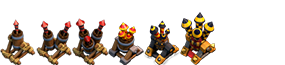
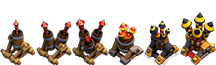
ImageLibrary configured and ImageView added to Entity

diff --git a/src/viewers/VillageScene.java b/src/viewers/VillageScene.java
@@ -1,18 +1,15 @@
 package viewers;
 
-import javafx.geometry.Rectangle2D;
 import javafx.scene.Group;
 import javafx.scene.Scene;
-import javafx.scene.image.Image;
 import javafx.scene.image.ImageView;
 import javafx.scene.layout.GridPane;
+import javafx.scene.layout.Pane;
+import models.GameLogic.Entities.Buildings.Building;
 import viewers.utils.DraggablePane;
+import viewers.utils.ImageLibrary;
 import viewers.utils.IsometricPane;
 import viewers.utils.MapTile;
-
-import java.io.File;
-import java.io.FileInputStream;
-import java.io.IOException;
 
 import static viewers.utils.Const.*;
 
@@ -23,6 +20,7 @@ public class VillageScene extends Scene{
     private DraggablePane draggableView;
     private GridPane tiles;
     private IsometricPane isometricPane;
+    private Pane buildinsPane;
     private ImageView villageBackground = new ImageView();
 
     private VillageScene() {
@@ -37,7 +35,7 @@ public class VillageScene extends Scene{
     }
 
     public Scene build() {
-        loadImageView(villageBackground, VIllAGE_BACKGROUND_PATH);
+        villageBackground.setImage(ImageLibrary.VillageBackground.getImage());
 
         tiles = new GridPane();
         tiles.setVgap(1);
@@ -49,6 +47,11 @@ public class VillageScene extends Scene{
         }
         isometricPane = new IsometricPane(tiles);
 
+        buildinsPane = new Pane();
+        for (Building building : AppGUI.getController().getWorld().getMyVillage().getBuildings()) {
+            buildinsPane.getChildren().add(building.getImageView());
+        }
+
         draggableView = new DraggablePane(villageBackground, isometricPane);
         draggableView.setMaxWidth(VIllAGE_BACKGROUND_WIDTH);
         draggableView.setMaxHeight(VIllAGE_BACKGROUND_HEIGHT);
@@ -57,15 +60,5 @@ public class VillageScene extends Scene{
         root.getChildren().clear();
         root.getChildren().addAll(draggableView);
         return instance;
-    }
-
-    private void loadImageView(ImageView imageView, String path) {
-        try {
-            FileInputStream fileInputStream = new FileInputStream(new File(path));
-            imageView.setImage(new Image(fileInputStream));
-            fileInputStream.close();
-        } catch (IOException e) {
-            e.printStackTrace();
-        }
     }
 }

diff --git a/src/viewers/utils/ImageLibrary.java b/src/viewers/utils/ImageLibrary.java
@@ -1,16 +1,40 @@
 package viewers.utils;
 
-import javax.swing.text.html.ImageView;
+import javafx.scene.image.Image;
+
+import java.io.File;
+import java.io.FileInputStream;
+import java.io.IOException;
 
 public enum ImageLibrary {
+    VillageBackground("assets/map/Village.jpg"),
+    AirDefense("assets/buildings/AirDefense.png"),
+    ArcherTower("assets/buildings/ArcherTower.png"),
+    Barracks("assets/buildings/Barracks.png"),
+    Camp("assets/buildings/Camp.png"),
+    Cannon("assets/buildings/Cannon.png"),
+    ElixirMine("assets/buildings/ElixirMine.png"),
+    ElixirStorage("assets/buildings/ElixirStorage.png"),
+    GoldMine("assets/buildings/GoldMine.png"),
+    GoldStorage("assets/buildings/GoldStorage.png"),
+    TownHall("assets/buildings/TownHall.png"),
+    Wall("assets/buildings/Wall.png"),
+    WizardTower("assets/buildings/WizardTower.png")
     ;
-    ImageLibrary(ImageView imageView) {
-        this.imageView = imageView;
+
+    private Image image;
+
+    ImageLibrary(String path) {
+        try {
+            FileInputStream fileInputStream = new FileInputStream(new File(path));
+            image = new Image(fileInputStream);
+            fileInputStream.close();
+        } catch (IOException e) {
+            e.printStackTrace();
+        }
     }
 
-    private ImageView imageView;
-
-    public ImageView getImageView(){
-        return imageView;
+    public Image getImage(){
+        return image;
     }
 }

diff --git a/src/models/GameLogic/Entities/Entity.java b/src/models/GameLogic/Entities/Entity.java
@@ -1,11 +1,13 @@
 package models.GameLogic.Entities;
 
 import interfaces.Locatable;
+import javafx.scene.image.ImageView;
 import models.GameLogic.Position;
 
 public class Entity implements Locatable {
     protected Position position;
     private int id;
+    private ImageView imageView;
 
     public Entity(){
     }
@@ -26,4 +28,7 @@ public class Entity implements Locatable {
         this.position = position;
     }
 
+    public ImageView getImageView() {
+        return imageView;
+    }
 }

diff --git a/src/viewers/AppGUI.java b/src/viewers/AppGUI.java
@@ -8,7 +8,7 @@ import javafx.stage.Stage;
 public class AppGUI extends Application {
     private static Stage mainStage;
 
-    private static Controller getController() {
+    public static Controller getController() {
         return Controller.getController();
     }
 

diff --git a/src/controllers/Controller.java b/src/controllers/Controller.java
@@ -350,4 +350,8 @@ public class Controller {
     public static Controller getController() {
         return controller;
     }
+
+    public World getWorld() {
+        return world;
+    }
 }
